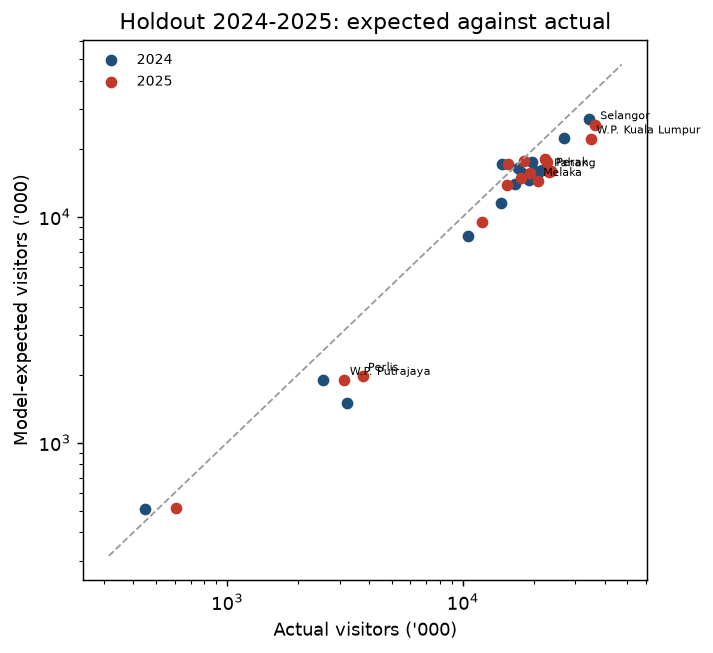
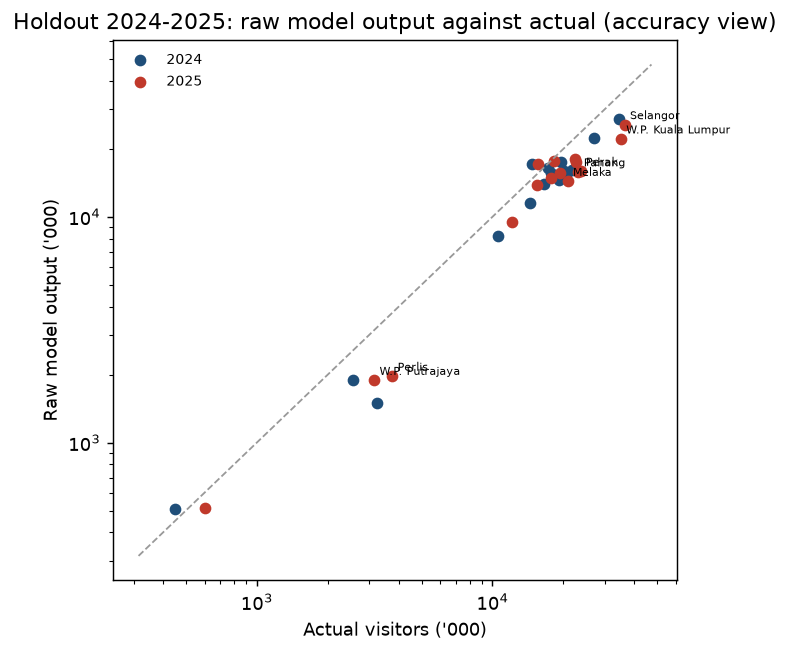
ml: put the expected level and the gap on the same scale
Found in review: the API returned expected_visitors_000 as the model's raw
output while opportunity_gap_pct came from shares, so the two sat on different
scales and could point opposite ways. Johor 2025 showed expected 17.7m against
actual 18.2m while the gap said the state was 27% below expectation. Measured
across the published rows, this affected 8 of the 16 states in 2025 and 24 of
the 90 rows overall - a judge looking at the map would have found it
immediately.

Cause: the structural model has no time term, so its raw level is anchored on
the training years and runs low for later ones. That is why the gap was moved to
shares in phase 9; the raw level was left in the response and never rescaled to
match.

Fix, in predict.py, handoff.py and evaluate.py:
- expected_visitors_000 is now the expected share applied to that year's
  national total, so it is directly comparable with the actual.
- gap_visitors_000 added: the shortfall in visitors. Johor 2025 is +4,922, or
  4.9m visitors below its benchmark, which is a far better sentence for the
  report than a percentage alone.
- model_raw_expected_000 keeps the raw output for diagnostics, documented as
  never to be displayed beside an actual.
- Figure 11 relabelled as the accuracy view of raw model output.

Both sides of the ratio now carry the same national total, so
expected/actual - 1 equals opportunity_gap_pct by construction, and
gap_visitors_000 always shares its sign. Verified on all 90 rows: contradictions
[…]

diff --git a/ml/src/predict.py b/ml/src/predict.py
@@ -98,6 +98,11 @@ def predict(payload: dict) -> dict:
       year      required, int
       features  optional {feature: value} overrides, for scenario analysis
 
+    expected_visitors_000 is the expected share applied to that year's national total,
+    so it is directly comparable with actual_visitors_000. model_raw_expected_000 is the
+    unscaled model output, kept for diagnostics only - do not display it beside an
+    actual.
+
     Returns a JSON-serialisable dict; see the API contract for the full shape.
     """
     if not isinstance(payload, dict):
@@ -139,11 +144,22 @@ def predict(payload: dict) -> dict:
 
     actual = row.get("visitors_000")
     actual = None if actual is None or pd.isna(actual) else float(actual)
-    actual_share = gap_pct = gap_pp = None
+    actual_share = gap_pct = gap_pp = benchmarked = gap_visitors = None
     if actual is not None and rows["visitors_000"].notna().all():
-        actual_share = actual / float(rows["visitors_000"].sum())
+        national_actual = float(rows["visitors_000"].sum())
+        actual_share = actual / national_actual
         gap_pct = (expected_share / actual_share - 1.0) * 100.0
         gap_pp = (expected_share - actual_share) * 100.0
+        # The model's raw level is anchored on its training years and runs
+        # systematically low for later ones, so showing it beside an actual invites the
+        # question "how can actual exceed expected while the gap says the state is
+        # below expectation?". Rescaling the expected share to the year's own national
+        # total puts both on one scale; the level gap then agrees with the share gap by
+        # construction, since both sides carry the same national total.
+        # This uses the year's published national total, so it is a benchmark for a year
+        # already observed, never a forecast.
+        benchmarked = expected_share * national_actual
+        gap_visitors = benchmarked - actual
 
     if state in HIGH_ERROR_STATES:
         warnings.append(
@@ -157,8 +173,10 @@ def predict(payload: dict) -> dict:
     return {
         "state": state,
         "year": year,
-        "expected_visitors_000": round(expected, 1),
+        "expected_visitors_000": None if benchmarked is None else round(benchmarked, 1),
         "actual_visitors_000": None if actual is None else round(actual, 1),
+        "gap_visitors_000": None if gap_visitors is None else round(gap_visitors, 1),
+        "model_raw_expected_000": round(expected, 1),
         "expected_share_pct": round(expected_share * 100, 4),
         "actual_share_pct": None if actual_share is None else round(actual_share * 100, 4),
         "opportunity_gap_pct": None if gap_pct is None else round(gap_pct, 1),

diff --git a/ml/src/evaluate.py b/ml/src/evaluate.py
@@ -161,6 +161,12 @@ def main() -> int:
         holdout.loc[group.index, "actual_share"] = group.actual_000 / group.actual_000.sum()
     holdout["gap_share_pp"] = (holdout.expected_share - holdout.actual_share) * 100
     holdout["gap_share_rel_pct"] = (holdout.expected_share / holdout.actual_share - 1) * 100
+    # Expected share applied to the year's own national total, so the level and the gap
+    # sit on one scale and cannot contradict each other on screen.
+    for year, group in holdout.groupby("year"):
+        national = group.actual_000.sum()
+        holdout.loc[group.index, "expected_benchmarked_000"] = group.expected_share * national
+    holdout["gap_visitors_000"] = holdout.expected_benchmarked_000 - holdout.actual_000
 
     head("opportunity gap, 2025")
     latest = holdout[holdout.year == 2025].sort_values("gap_share_rel_pct", ascending=False)
@@ -177,9 +183,10 @@ def main() -> int:
     log(f"  correlation of the 2024 and 2025 gap rankings: "
         f"{stability[2024].corr(stability[2025], method='spearman'):.3f}")
 
-    gap_table = holdout[["state", "year", "actual_000", "expected_000", "gap_000", "gap_pct",
-                         "actual_share", "expected_share", "gap_share_pp", "gap_share_rel_pct",
-                         "population_000", "rooms"]].copy()
+    gap_table = holdout[["state", "year", "actual_000", "expected_benchmarked_000",
+                         "gap_visitors_000", "actual_share", "expected_share",
+                         "gap_share_pp", "gap_share_rel_pct", "expected_000", "gap_000",
+                         "gap_pct", "population_000", "rooms"]].copy()
     gap_table.to_parquet(PROCESSED / "opportunity_gap.parquet", index=False)
     log(f"\n  written: data/processed/opportunity_gap.parquet ({len(gap_table)} rows)")
 
@@ -195,8 +202,9 @@ def main() -> int:
             ax.annotate(row.state, (row.actual_000, row.expected_000), fontsize=6,
                         xytext=(3, 3), textcoords="offset points")
     ax.set_xscale("log"); ax.set_yscale("log")
-    ax.set_xlabel("Actual visitors ('000)"); ax.set_ylabel("Model-expected visitors ('000)")
-    ax.set_title("Holdout 2024-2025: expected against actual")
+    ax.set_xlabel("Actual visitors ('000)")
+    ax.set_ylabel("Raw model output ('000)")
+    ax.set_title("Holdout 2024-2025: raw model output against actual (accuracy view)")
     ax.legend(frameon=False, fontsize=8)
     fig.savefig(FIGURES / "11_holdout_actual_vs_expected.png", bbox_inches="tight", dpi=130)
     plt.close(fig)

diff --git a/ml/src/handoff.py b/ml/src/handoff.py
@@ -68,11 +68,15 @@ def main() -> int:
     parts = []
     for year, group in table.groupby("year"):
         group = group.copy()
-        group["expected_visitors_000"] = np.exp(_model().predict(group[features].to_numpy()))
-        group["expected_share_pct"] = group.expected_visitors_000 / group.expected_visitors_000.sum() * 100
+        group["model_raw_expected_000"] = np.exp(_model().predict(group[features].to_numpy()))
+        group["expected_share_pct"] = group.model_raw_expected_000 / group.model_raw_expected_000.sum() * 100
         group["actual_share_pct"] = group.visitors_000 / group.visitors_000.sum() * 100
         group["opportunity_gap_pp"] = group.expected_share_pct - group.actual_share_pct
         group["opportunity_gap_pct"] = (group.expected_share_pct / group.actual_share_pct - 1) * 100
+        # Rescale the expected share to the year's own national total so that the level
+        # and the gap tell the same story. See src/predict.py for why.
+        group["expected_visitors_000"] = group.expected_share_pct / 100 * group.visitors_000.sum()
+        group["gap_visitors_000"] = group.expected_visitors_000 - group.visitors_000
         parts.append(group)
     predictions = pd.concat(parts, ignore_index=True)
 
@@ -83,8 +87,9 @@ def main() -> int:
         predictions.year == latest, predictions.visitors_000, np.nan)
 
     columns = ["state", "year", "visitors_000", "expected_visitors_000",
-               "actual_share_pct", "expected_share_pct", "opportunity_gap_pp",
-               "opportunity_gap_pct", "is_holdout_year", "naive_forecast_next_year_000"]
+               "gap_visitors_000", "actual_share_pct", "expected_share_pct",
+               "opportunity_gap_pp", "opportunity_gap_pct", "model_raw_expected_000",
+               "is_holdout_year", "naive_forecast_next_year_000"]
     out = predictions[columns].round(4).sort_values(["year", "opportunity_gap_pct"],
                                                     ascending=[True, False])
     path = FOR_HONGYIK / "sample_predictions.csv"

diff --git a/ml/handoff/for_hongyik/API_CONTRACT.md b/ml/handoff/for_hongyik/API_CONTRACT.md
@@ -7,6 +7,21 @@
 rows. Holdout MAE_log 0.2648 against a baseline of 0.4467, a 40.7% reduction
 (`ml/reports/09_evaluation.md`).
 
+> ### ⚠ Changed on 2026-09-18 — re-pull before you build
+> `expected_visitors_000` **now means something different**, and two fields were added.
+>
+> Before, it was the model's raw output, which is anchored on the model's training years
+> and runs systematically low for later ones. Put beside an actual it produced a visible
+> contradiction: Johor 2025 showed expected 17.7m against actual 18.2m while the gap said
+> +27% below expectation. **In 2025 that happened for 8 of the 16 states.**
+>
+> `expected_visitors_000` is now the expected **share** applied to that year's national
+> total, so it sits on the same scale as the actual. Across all 90 rows the level and the
+> gap now agree in direction, with **zero** contradictions. The raw output is still
+> available as `model_raw_expected_000`, for diagnostics only.
+>
+> Nothing about the model or its accuracy changed. No number in the evaluation moved.
+
 ---
 
 ## 1. You may not need the API at all
@@ -69,8 +84,10 @@ predict({"state": "Johor", "year": 2025})
 {
   "state": "Johor",
   "year": 2025,
-  "expected_visitors_000": 17712.1,
+  "expected_visitors_000": 23118.9,
   "actual_visitors_000": 18197.0,
+  "gap_visitors_000": 4921.9,
+  "model_raw_expected_000": 17712.1,
   "expected_share_pct": 7.9702,
   "actual_share_pct": 6.2734,
   "opportunity_gap_pct": 27.0,
@@ -92,8 +109,10 @@ predict({"state": "Johor", "year": 2025})
 | Field | Type | Units | Meaning |
 |---|---|---|---|
 | `state`, `year` | string, int | — | echoed back |
-| `expected_visitors_000` | float | **thousands of visitors** | what the model expects from this state's population, economy and capacity |
+| `expected_visitors_000` | float \| null | **thousands of visitors** | **the one to display.** The expected share applied to that year's national total, so it is directly comparable with `actual_visitors_000` |
 | `actual_visitors_000` | float \| null | thousands | what DOSM published |
+| **`gap_visitors_000`** | float \| null | thousands | `expected_visitors_000 − actual_visitors_000`. Positive = a shortfall. Johor 2025 is **+4,922**, i.e. 4.9m visitors below its benchmark |
+| `model_raw_expected_000` | float | thousands | **diagnostic only, never display beside an actual.** The unscaled model output, anchored on the training years |
 | `expected_share_pct` | float | **percent** | expected share of that year's national total |
 | `actual_share_pct` | float \| null | percent | actual share |
 | **`opportunity_gap_pct`** | float \| null | **percent** | **the headline number.** `expected_share / actual_share − 1`. Positive = the state receives a *smaller* share than its fundamentals imply |
@@ -103,16 +122,33 @@ predict({"state": "Johor", "year": 2025})
 | `model` | object | — | provenance to display in an "about" panel |
 | `warnings` | array of strings | — | **show these.** See below |
 
-### Why the gap is a share, not a difference in visitors
+### Why there are two expected columns
 
-The model has no time term: it estimates the level implied by a state's fundamentals. National
-visitors grew from 213.7m in 2023 to 290.1m in 2025 while population and hotel stock barely
-moved, so the model under-predicts every state in recent years — 91% of holdout rows. A gap
-in raw visitors would therefore measure **national growth**, not state performance, and would
-have shown 15 of 16 states as "opportunities". Normalising to shares removes that entirely.
+The model has no time term: it estimates the level implied by a state's fundamentals.
+National visitors grew from 213.7m in 2023 to 290.1m in 2025 while population and hotel
+stock barely moved, so the **raw** model output runs low for every state in recent years —
+91% of holdout rows. Two consequences:
 
-**Do not compute your own gap as `expected_visitors_000 − actual_visitors_000`.** It will be
-negative almost everywhere and it will not mean what it looks like.
+1. A gap in raw visitors would measure **national growth**, not state performance. It would
+   have marked 15 of 16 states as "opportunities", which is meaningless.
+2. Showing the raw level beside an actual reads as a contradiction. Johor 2025: raw expected
+   17.7m, actual 18.2m, yet the gap says the state is 27% below expectation. In 2025 that
+   affected 8 of 16 states.
+
+The fix is to rescale: `expected_visitors_000 = expected_share × the year's national total`.
+Both sides then carry the same national total, so
+
+    expected_visitors_000 / actual_visitors_000 − 1  ==  opportunity_gap_pct
+
+holds exactly, and `gap_visitors_000` always has the same sign as `opportunity_gap_pct`.
+Verified across all 90 rows.
+
+**`expected_visitors_000` is a benchmark, not a forecast.** It uses the national total of a
+year that has already been published, so it answers "given what the country did that year,
+what share should this state have taken", never "what will happen next year".
+
+**Do not display `model_raw_expected_000` next to an actual**, and do not build your own gap
+from it.
 
 ### Warnings you should surface
 
@@ -166,10 +202,12 @@ except PredictionError as exc:
 |---|---|---|
 | `state`, `year` | — | key |
 | `visitors_000` | thousands | actual, from DOSM |
-| `expected_visitors_000` | thousands | model output |
+| `expected_visitors_000` | thousands | benchmarked expectation, comparable with the actual |
+| **`gap_visitors_000`** | thousands | shortfall in visitors; positive = below benchmark |
 | `actual_share_pct`, `expected_share_pct` | percent | within that year |
 | `opportunity_gap_pp` | percentage points | expected share − actual share |
 | **`opportunity_gap_pct`** | percent | the headline number |
+| `model_raw_expected_000` | thousands | diagnostic only; do not display beside an actual |
 | `is_holdout_year` | bool | `true` for 2024 and 2025 — **lead with these** |
 | `naive_forecast_next_year_000` | thousands | only on 2025 rows; see §5 |
 
@@ -200,7 +238,7 @@ running the pipeline**. Both sources give identical answers; that is asserted in
 | Panel | Field |
 |---|---|
 | Map shading | `opportunity_gap_pct` for the selected year, diverging scale centred on 0 |
-| State drill-down | `actual_visitors_000` and `expected_visitors_000`, plus `interpretation` |
+| State drill-down | `actual_visitors_000` against `expected_visitors_000` (both on the same scale), the shortfall `gap_visitors_000`, plus `interpretation` |
 | Ranked table | states sorted by `opportunity_gap_pct`, 2025 |
 | Reliability | show `warnings`; grey out or footnote Perlis and W.P. Putrajaya |
 | About | `model.family`, `trained_on_years`, `holdout_MAE_log` against `baseline_MAE_log` |

diff --git a/ml/reports/09_evaluation.md b/ml/reports/09_evaluation.md
@@ -106,24 +106,32 @@ should use.
 Positive = the state receives a **smaller** share of national visitors than its population,
 economy and accommodation capacity imply.
 
-| State | Actual ('000) | Expected share | Actual share | Gap (pp) | **Gap (%)** |
+| State | Actual ('000) | Benchmark ('000) | Shortfall ('000) | Gap (pp) | **Gap (%)** |
 |---|---:|---:|---:|---:|---:|
-| Kedah | 15,608 | 7.67% | 5.38% | +2.29 | **+42.6** |
-| Johor | 18,197 | 7.97% | 6.27% | +1.70 | **+27.0** |
-| Terengganu | 15,462 | 6.20% | 5.33% | +0.87 | +16.3 |
-| W.P. Labuan | 604 | 0.23% | 0.21% | +0.02 | +10.3 |
-| Pulau Pinang | 17,718 | 6.69% | 6.11% | +0.58 | +9.6 |
-| Sabah | 22,361 | 8.13% | 7.71% | +0.42 | +5.4 |
-| Negeri Sembilan | 19,357 | 7.00% | 6.67% | +0.33 | +4.9 |
-| Kelantan | 12,062 | 4.26% | 4.16% | +0.10 | +2.4 |
-| Sarawak | 22,722 | 7.87% | 7.83% | +0.03 | +0.4 |
-| Selangor | 36,376 | 11.53% | 12.54% | −1.02 | −8.1 |
-| Melaka | 20,832 | 6.46% | 7.18% | −0.72 | −10.0 |
-| Pahang | 23,161 | 7.12% | 7.98% | −0.86 | −10.8 |
-| Perak | 23,642 | 7.17% | 8.15% | −0.98 | −12.0 |
-| W.P. Kuala Lumpur | 35,060 | 9.96% | 12.09% | −2.12 | −17.6 |
-| W.P. Putrajaya | 3,146 | 0.85% | 1.08% | −0.24 | −21.7 |
-| Perlis | 3,756 | 0.89% | 1.29% | −0.41 | −31.6 |
+| Kedah | 15,608 | 22,258 | +6,650 | +2.29 | **+42.6** |
+| Johor | 18,197 | 23,119 | +4,922 | +1.70 | **+27.0** |
+| Terengganu | 15,462 | 17,984 | +2,522 | +0.87 | +16.3 |
+| W.P. Labuan | 604 | 667 | +62 | +0.02 | +10.3 |
+| Pulau Pinang | 17,718 | 19,411 | +1,693 | +0.58 | +9.6 |
+| Sabah | 22,361 | 23,577 | +1,216 | +0.42 | +5.4 |
+| Negeri Sembilan | 19,357 | 20,309 | +953 | +0.33 | +4.9 |
+| Kelantan | 12,062 | 12,357 | +295 | +0.10 | +2.4 |
+| Sarawak | 22,722 | 22,815 | +94 | +0.03 | +0.4 |
+| Selangor | 36,376 | 33,430 | −2,946 | −1.02 | −8.1 |
+| Melaka | 20,832 | 18,744 | −2,088 | −0.72 | −10.0 |
+| Pahang | 23,161 | 20,659 | −2,502 | −0.86 | −10.8 |
+| Perak | 23,642 | 20,800 | −2,842 | −0.98 | −12.0 |
+| W.P. Kuala Lumpur | 35,060 | 28,903 | −6,157 | −2.12 | −17.6 |
+| W.P. Putrajaya | 3,146 | 2,462 | −684 | −0.24 | −21.7 |
+| Perlis | 3,756 | 2,569 | −1,187 | −0.41 | −31.6 |
+
+**Benchmark** is the state's expected share applied to the year's national total. It exists
+because the raw model level cannot be shown beside an actual: anchored on the training
+years, it runs low for 2024–2025, and for **8 of the 16 states in 2025 it sat on the opposite
+side of the actual from where the gap says the state stands**. Rescaling removes that; the
+level, the shortfall and the percentage now agree in direction on all 90 published rows.
+The accuracy figures in §1 are unchanged — they are computed on the raw output, since the
+benchmark uses the year's own national total and would flatter the model.
 
 `figures/12_opportunity_gap_2025.png`
 

diff --git a/ml/handoff/for_yihui/FINDINGS.md b/ml/handoff/for_yihui/FINDINGS.md
@@ -117,15 +117,21 @@ thing as the strongest tourism performance, and should not be presented as a ran
 
 For 2025, the states furthest below their model-expected share:
 
-| State | Gap |
-|---|---|
-| **Kedah** | **+42.6%** |
-| **Johor** | **+27.0%** |
-| Terengganu | +16.3% |
-| W.P. Labuan | +10.3% |
-| Pulau Pinang | +9.6% |
+| State | Actual | Benchmark | Shortfall | Gap |
+|---|---:|---:|---:|---:|
+| **Kedah** | 15.6m | 22.3m | **6.7m** | **+42.6%** |
+| **Johor** | 18.2m | 23.1m | **4.9m** | **+27.0%** |
+| Terengganu | 15.5m | 18.0m | 2.5m | +16.3% |
+| W.P. Labuan | 0.6m | 0.7m | 0.06m | +10.3% |
+| Pulau Pinang | 17.7m | 19.4m | 1.7m | +9.6% |
 
 And furthest above: Perlis −31.6%, W.P. Putrajaya −21.7%, W.P. Kuala Lumpur −17.6%.
+
+**"Benchmark" is the state's expected share applied to that year's national total**, which
+is what makes it comparable with the actual. The shortfall column is the difference. Both
+say the same thing as the percentage — they are the same number on three scales, so quote
+whichever suits the sentence. "Kedah received 6.7 million fewer domestic visitors in 2025
+than its population, economy and accommodation capacity imply" is the plainest form.
 
 **These gaps indicate lower-than-expected visitor shares given the modelled structural
 conditions. They do not identify the cause.** That sentence should follow the finding every
